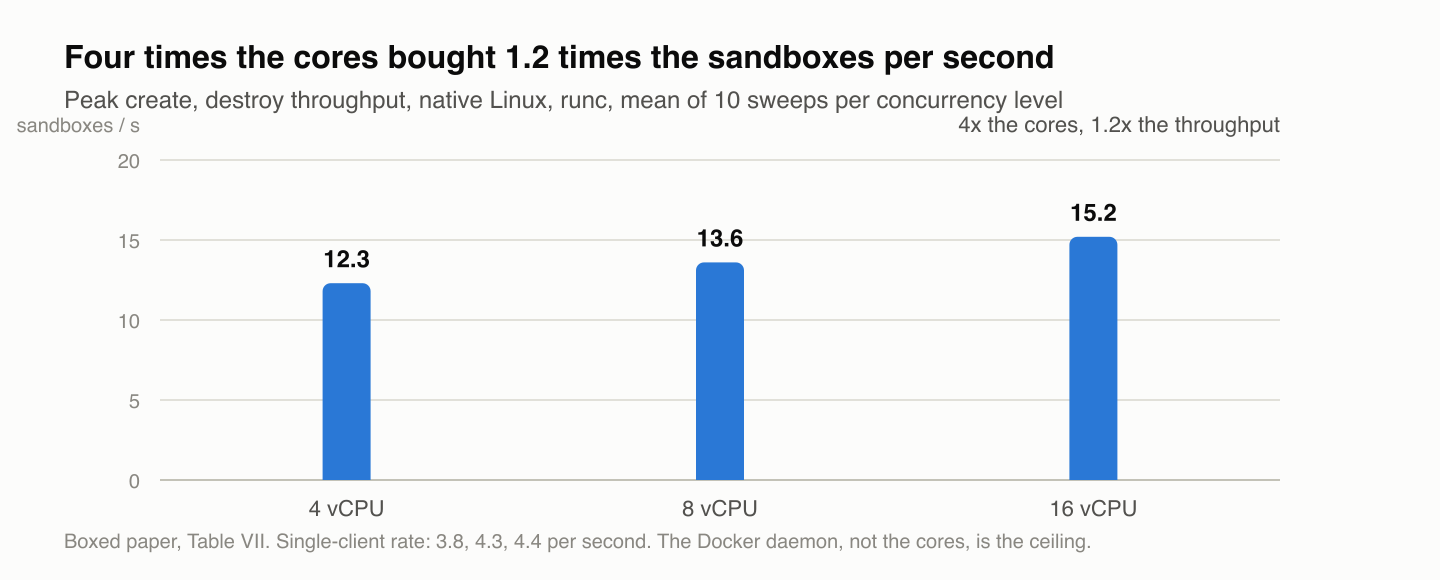
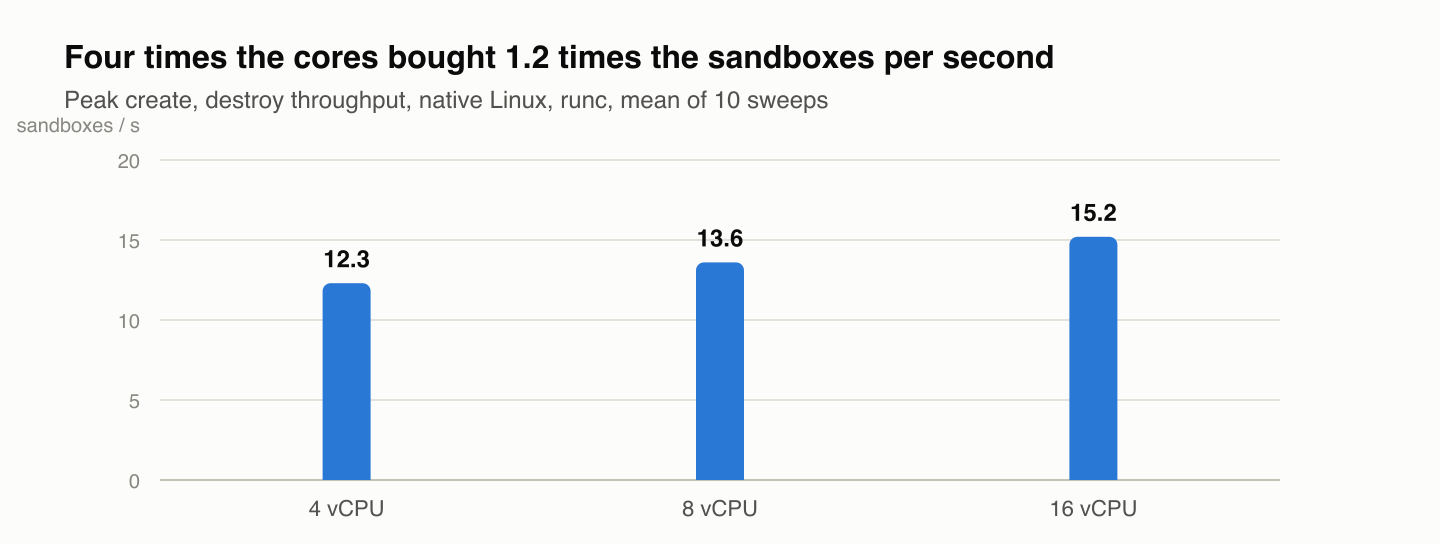
trade-article: cleaner figures, in-figure footers removed
The Doc caption carries method and source, so the figures no longer
repeat them. Subtitles shortened, 2a's duplicate annotation dropped,
1a's fix line wrapped to two lines, canvases tightened.

Claude-Session: https://claude.ai/code/session_01SxpViLPrY1ZCdELQyKVq32

diff --git a/trade-article/figures/make_charts.py b/trade-article/figures/make_charts.py
@@ -51,16 +51,18 @@ def vbar(x, w, y0, y1, fill, r=4):
             f'H{x+w-r:.1f} A{r},{r} 0 0 1 {x+w:.1f},{y1+r:.1f} V{y0:.1f} Z" fill="{fill}"/>')
 
 
-def frame(height, title, subtitle, body, source):
-    return "\n".join([
+def frame(height, title, subtitle, body, source=""):
+    parts = [
         f'<svg xmlns="http://www.w3.org/2000/svg" width="{W}" height="{height}" viewBox="0 0 {W} {height}">',
         f'<rect width="{W}" height="{height}" fill="{SURFACE}"/>',
         text(32, 34, title, size=16, weight="600"),
         text(32, 54, subtitle, size=12, fill=INK2),
         body,
-        text(32, height - 16, source, size=10, fill=MUTED),
-        "</svg>",
-    ])
+    ]
+    if source:
+        parts.append(text(32, height - 16, source, size=10, fill=MUTED))
+    parts.append("</svg>")
+    return "\n".join(parts)
 
 
 # ---------------------------------------------------------------- 1b
@@ -99,13 +101,11 @@ def fig_1b():
             body.append(hbar(x0, x1, y, bar_h, color))
             body.append(text(x1 + 6, y + bar_h / 2 + 4, f"{val} ms", size=11,
                              fill=INK, weight="600" if emph else "normal"))
-    height = 250
-    body.append(text(32, height - 34, "ms, median of five runs of 200 sequential lifecycles per configuration, same image and command", size=10, fill=MUTED))
+    height = 206
     return frame(height,
                  "Hardening was faster than stock, on both hosts",
-                 "Median create, exec, destroy lifecycle against the Docker Engine API",
-                 "\n".join(body),
-                 "Boxed paper, Table I. Shared scale across panels.")
+                 "Median create, exec, destroy lifecycle, ms, against the Docker Engine API",
+                 "\n".join(body))
 
 
 # ---------------------------------------------------------------- 2a
@@ -129,13 +129,11 @@ def fig_2a():
         body.append(vbar(cx - col_w / 2, col_w, base_y, y1, BLUE))
         body.append(text(cx, y1 - 8, f"{val}", size=12, weight="600", anchor="middle"))
         body.append(text(cx, base_y + 18, label, size=11, fill=INK2, anchor="middle"))
-    body.append(text(x0 + plot_w, top - 14, "4x the cores, 1.2x the throughput", size=11, fill=INK2, anchor="end"))
-    height = 290
+    height = 272
     return frame(height,
                  "Four times the cores bought 1.2 times the sandboxes per second",
-                 "Peak create, destroy throughput, native Linux, runc, mean of 10 sweeps per concurrency level",
-                 "\n".join(body),
-                 "Boxed paper, Table VII. Single-client rate: 3.8, 4.3, 4.4 per second. The Docker daemon, not the cores, is the ceiling.")
+                 "Peak create, destroy throughput, native Linux, runc, mean of 10 sweeps",
+                 "\n".join(body))
 
 
 # ---------------------------------------------------------------- 2b
@@ -162,12 +160,11 @@ def fig_2b():
     body.append(text(x0 + 18, ly + 1, f"Model call (claude-opus-5, adaptive thinking), {model_s} s median", size=11, fill=INK))
     body.append(f'<rect x="{x0}" y="{ly+13}" width="12" height="12" rx="2" fill="{ORANGE}"/>')
     body.append(text(x0 + 18, ly + 23, f"Sandbox create, exec, destroy, {sandbox_ms} ms median", size=11, fill=INK))
-    height = 236
+    height = 204
     return frame(height,
                  "Where an agent step goes",
-                 "Median wall-clock per HumanEval task, 60 task executions, laptop host, 60 of 60 passed",
-                 "\n".join(body),
-                 "Boxed paper, Section V.F. On an idle native Linux host the model's share is 89%.")
+                 "Median wall-clock per HumanEval task, 60 executions, laptop host",
+                 "\n".join(body))
 
 
 # ---------------------------------------------------------------- 2c
@@ -192,12 +189,11 @@ def fig_2c():
         body.append(text(cx, y1 - 8, f"{val} s", size=12, weight="600", anchor="middle"))
         for j, line in enumerate(label.split("\n")):
             body.append(text(cx, base_y + 18 + j * 14, line, size=11, fill=INK2, anchor="middle"))
-    height = 312
+    height = 292
     return frame(height,
                  "Two flags that are free on runc cost seconds on a microVM",
-                 "Kata Containers lifecycle with hardening flags added one at a time, three runs each",
-                 "\n".join(body),
-                 "Boxed paper, Section V.H, knobs.csv. On runc, network none is the fastest option. The CPU quota throttles QEMU while the guest boots.")
+                 "Kata Containers lifecycle with hardening flags added one at a time",
+                 "\n".join(body))
 
 
 # ---------------------------------------------------------------- 3b
@@ -208,10 +204,10 @@ def fig_3b():
     label_w = 230
     x0 = 32 + label_w
     plot_w = W - x0 - 60
-    top = 104
+    top = 92
     row_h = 44
     xmax = 0.8
-    body = [text(32, 70, "The refusal rule wrote WRONG into both judge columns on 139 rows", size=12, fill=INK2)]
+    body = []
     base_y = top + len(rows) * row_h
     for v in (0, 0.2, 0.4, 0.6, 0.8):
         gx = x0 + plot_w * v / xmax
@@ -241,12 +237,11 @@ def fig_3b():
     body.append(text(32 + 18, ly + 4, "Before the refusal rule", size=11, fill=INK))
     body.append(f'<circle cx="{32+186}" cy="{ly}" r="6" fill="{BLUE}"/>')
     body.append(text(32 + 198, ly + 4, "After the refusal rule", size=11, fill=INK))
-    height = 276
+    height = 240
     return frame(height,
                  "The kappa gain lived entirely on the rows the rule wrote",
-                 "Cohen's kappa between qwen3:8b and deepseek-r1:8b over 600 LoCoMo judgments",
-                 "\n".join(body),
-                 "AMP judge paper, Table 2. On the 461 judge-scored rows nothing moved: 0.064 before and after, to four decimals.")
+                 "Cohen's kappa between qwen3:8b and deepseek-r1:8b, 600 LoCoMo judgments",
+                 "\n".join(body))
 
 
 FIGS = {
